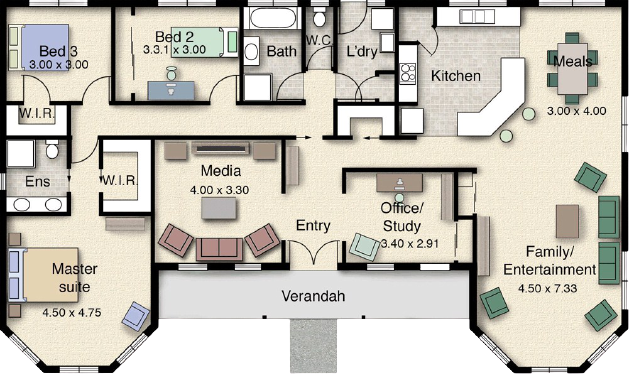
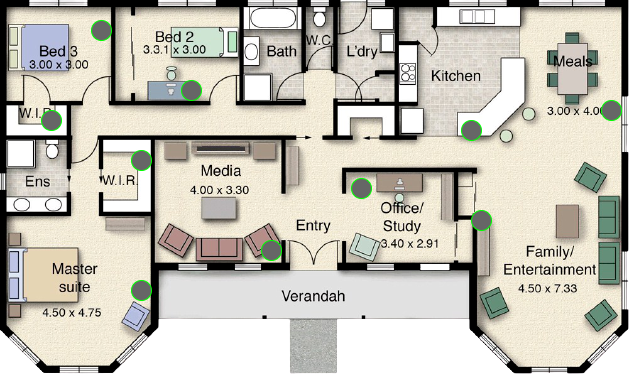
Adicionadas imagens e visualização da posição do roteador

diff --git a/redeMesh.py b/redeMesh.py
@@ -7,7 +7,7 @@ root = Tk()
 root.title("Redes Mesh e seu trajeto até os dispositivos")
 root.geometry("675x900")
 
-intro = Label(root, text="\nFoi delegada a você a missão de instalar uma soluçao de internet de uma casa.\nLhe foi informado que à sua disposição há:\nUm roteador e mais dois repetidores Mesh, sendo o posicionamento deles arbitrário por você.\nObs: Quanto menor o número de repetidores percorridos, melhor é a qualidade do sinal.\n")
+intro = Label(root, text="\nFoi delegada a você a missão de instalar uma soluçao de internet de uma casa.\nLhe foi informado que à sua disposição há:\nUm roteador e mais três repetidores Mesh, sendo o posicionamento deles arbitrário por você.\nObs: Quanto menor o número de repetidores percorridos, melhor é a qualidade do sinal.\n")
 intro.pack()
 
 imagem = PhotoImage(file="imagens/planta.png")
@@ -99,10 +99,10 @@ comodos = {0 'Suite Master':    ['Closet Master', 'Media'],
 localDeAcesso = {}
 
 def atualiza_imagem(value):
-  if value == 'Media':
-    img2 = ImageTk.PhotoImage(Image.open("imagens/media.png"))
-    imgLabel.configure(image=img2)
-    imgLabel.image = img2
+  imgPath = "imagens/" + value + ".png"
+  img2 = ImageTk.PhotoImage(Image.open(imgPath))
+  imgLabel.configure(image=img2)
+  imgLabel.image = img2
 
 
 label = Label(text="_________________________________________________________________")
@@ -116,13 +116,13 @@ router_options = []
 for item in comodostxt:
     router_options.append(item)
 clicked = StringVar()
-clicked.set(router_options[0])
+#clicked.set(router_options[0])
 
 OptionMenu(root, clicked, *router_options, command=atualiza_imagem).pack(padx=100)
 
 
 
-label = Label(text="\nSelecione o cômodo onde será posicionado o primeiro repetidor:")
+label = Label(text="\nSelecione os cômodos onde serão posicionados os repetidores:")
 label.pack()
 
 rep1_options = []
@@ -130,20 +130,21 @@ for item in comodostxt:
     rep1_options.append(item)
 clicked = StringVar()
 clicked.set(rep1_options[0])
-
-OptionMenu(root, clicked, *rep1_options).pack(padx=100)
-
-
-label = Label(text="\nSelecione o cômodo do segundo repetidor:")
-label.pack()
+OptionMenu(root, clicked, *rep1_options).pack(padx=0)
 
 rep2_options = []
 for item in comodostxt:
     rep2_options.append(item)
 clicked = StringVar()
 clicked.set(rep2_options[0])
-
 OptionMenu(root, clicked, *rep2_options).pack(padx=100)
+
+rep3_options = []
+for item in comodostxt:
+    rep3_options.append(item)
+clicked = StringVar()
+clicked.set(rep3_options[0])
+OptionMenu(root, clicked, *rep3_options).pack(padx=100)
 
 
 label = Label(text="_________________________________________________________________")
